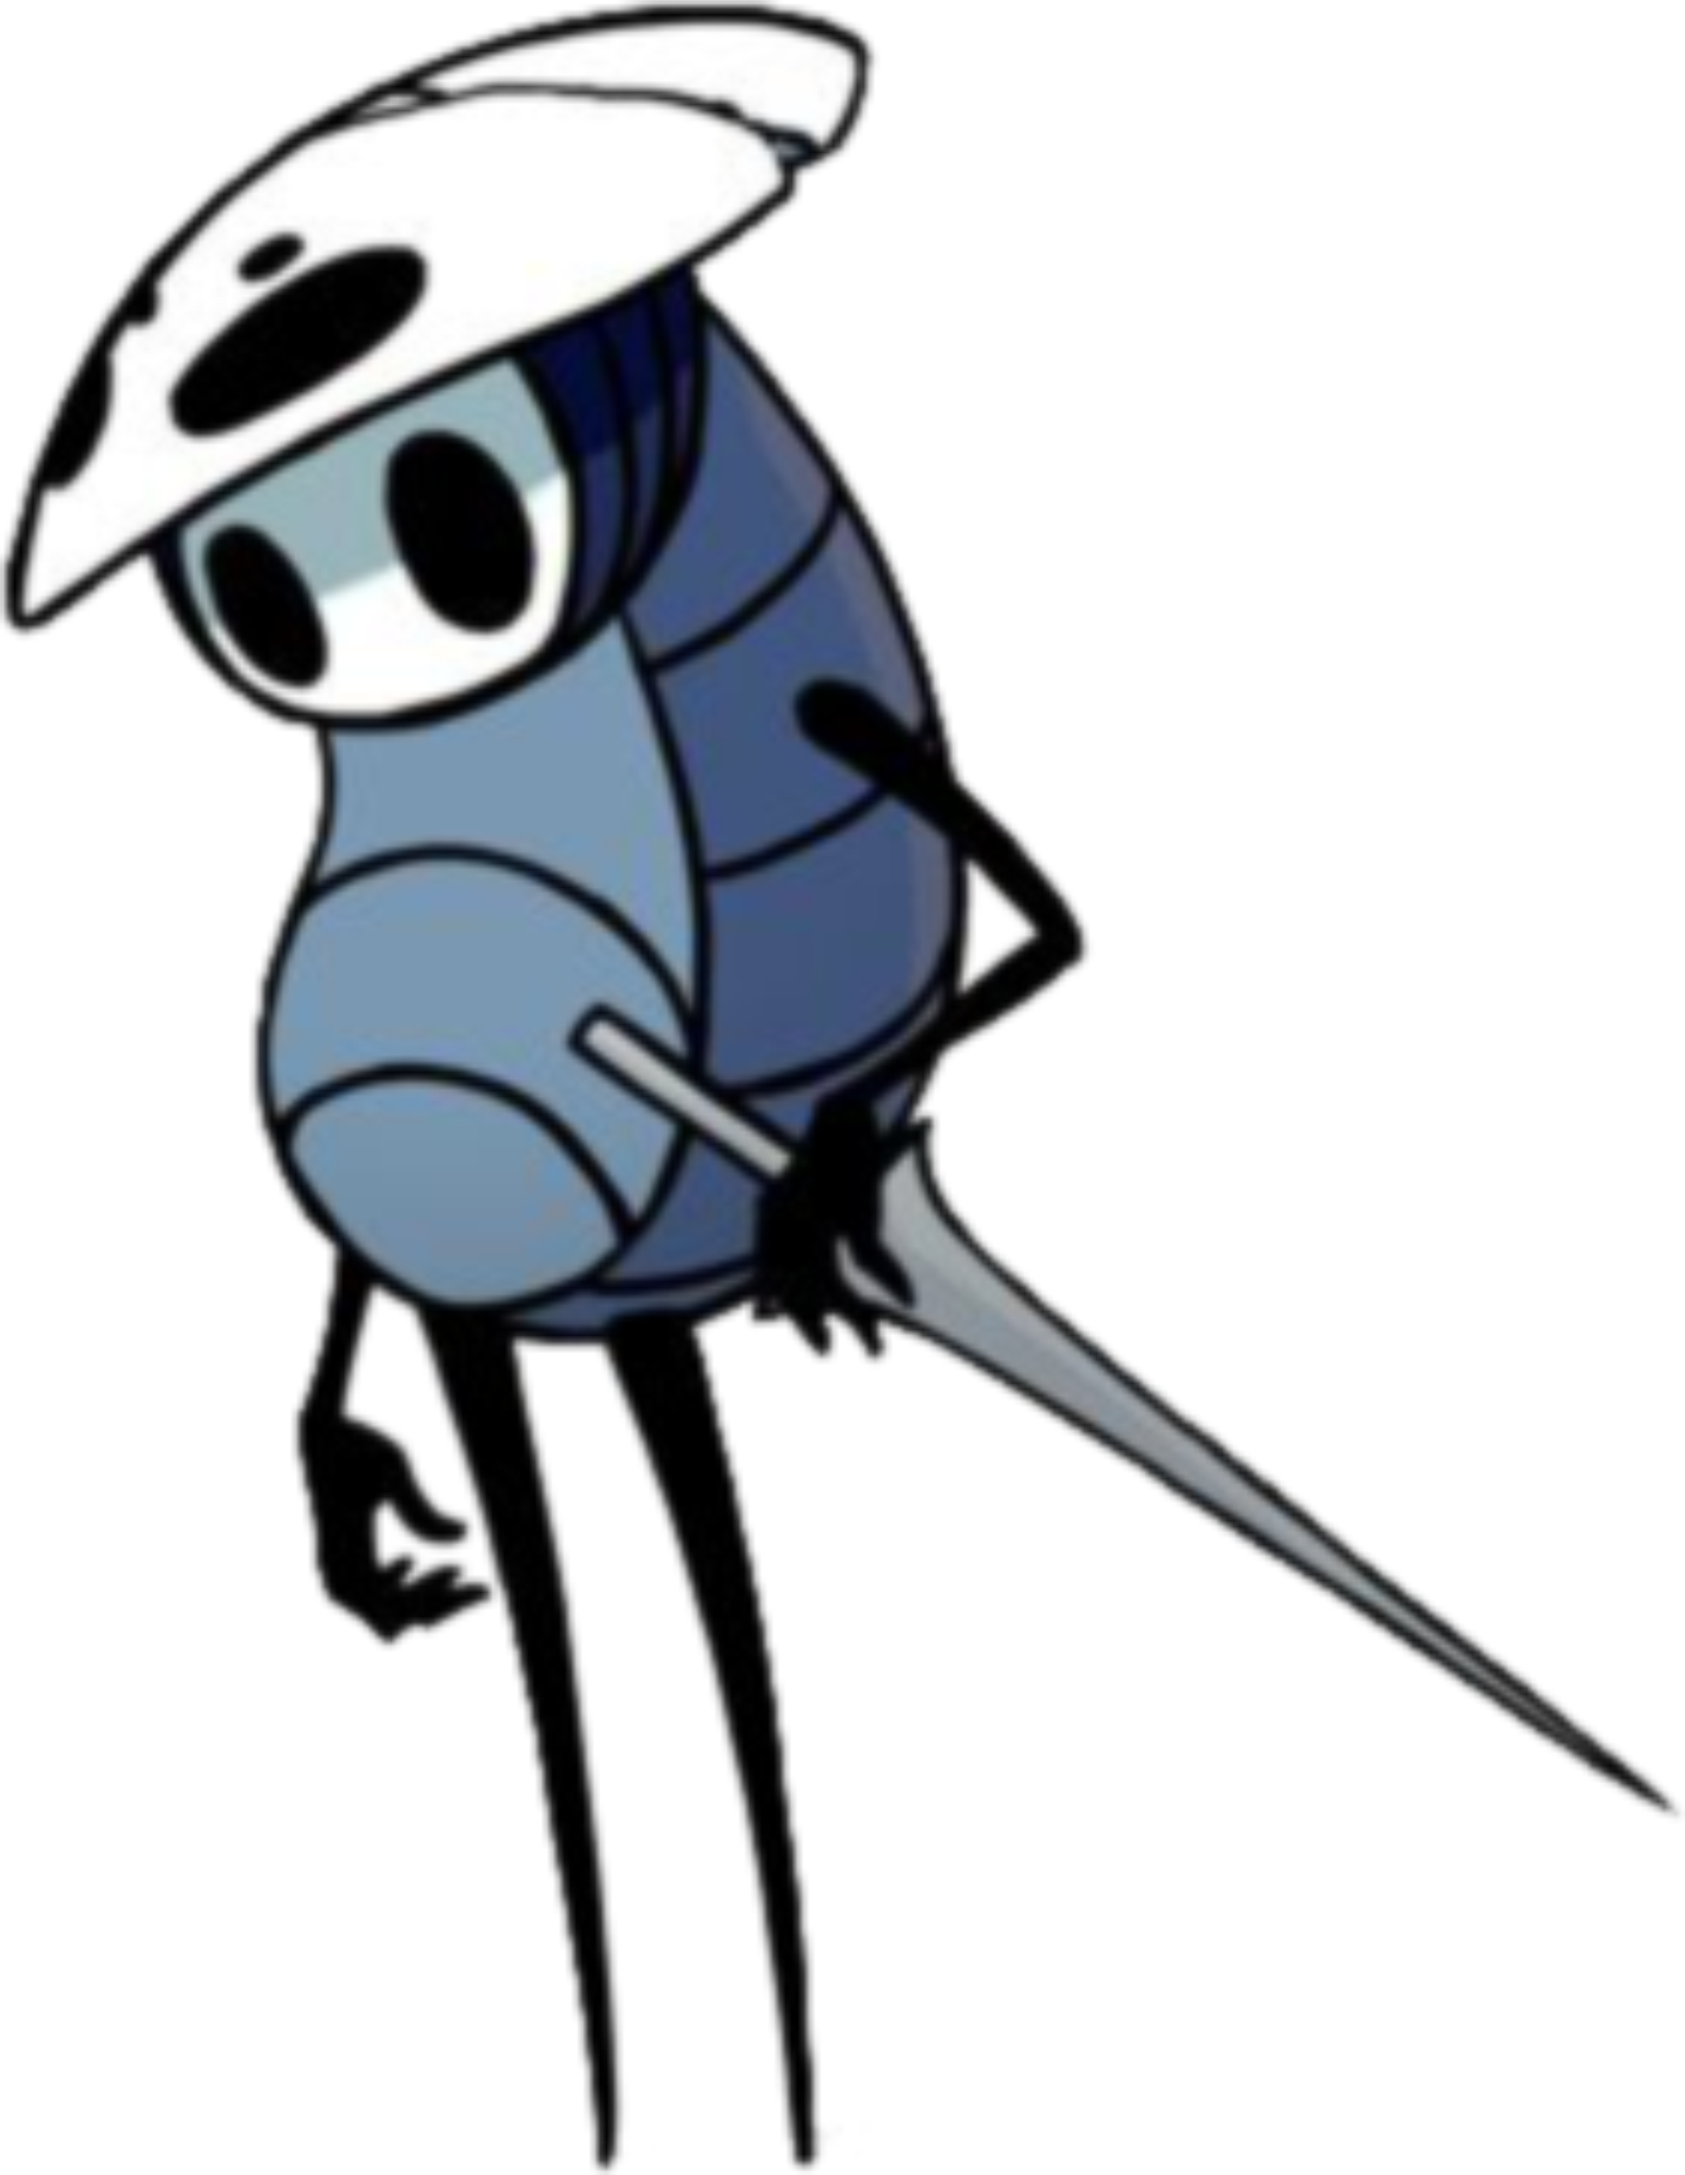
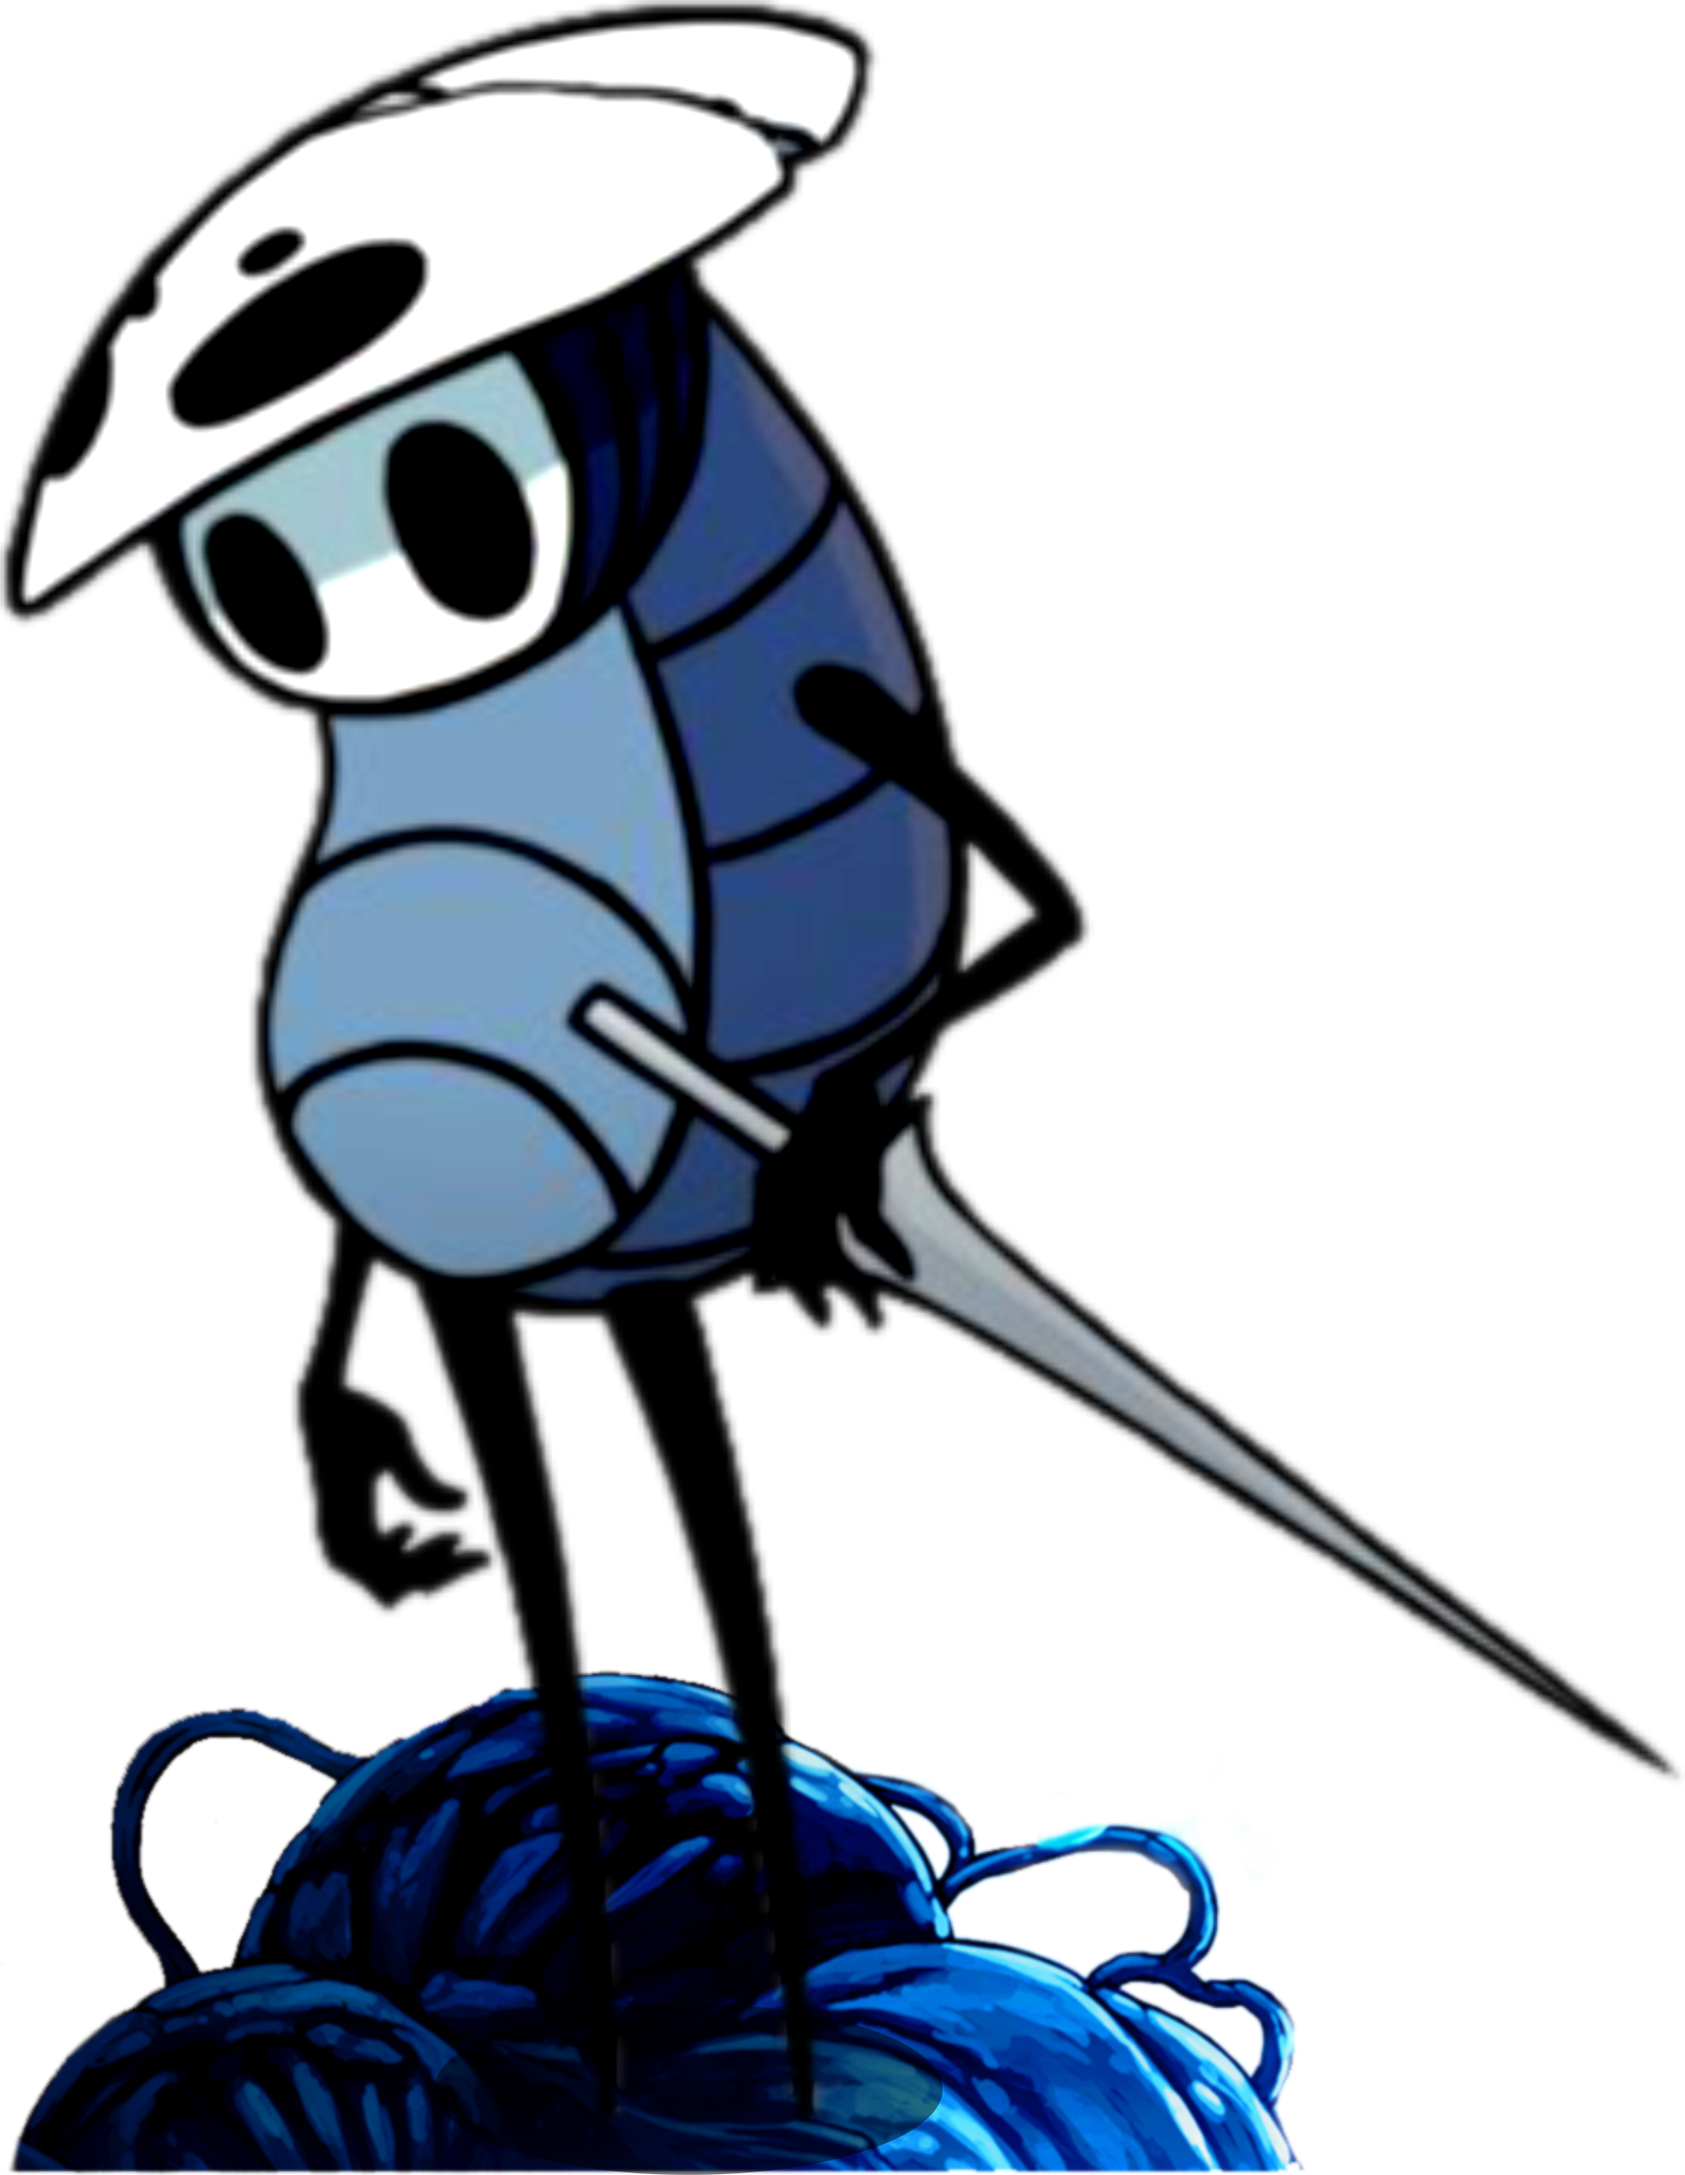
Landing Page Completa

Changed region(s): [[0.0, 0.0, 1.0, 1.0], [0.4948, 0.0312, 0.5258, 0.0623]]

diff --git a/index.html b/index.html
@@ -26,7 +26,11 @@
                 </li>
             </ul>
         </nav>
-        <a href="#" class="botao"> Login</a>
+        <div class="botoes"> 
+            <a href="#" class="botao"> Login</a>
+            <a href="#" class="botao"> Cadastre-se</a>
+        </div>
+       
         </div>
     </header>
 
@@ -43,12 +47,13 @@
         <h1 class="h2"> OLÁ, GAMER!</h1>
         <h2> Conheça a nossa Loja</h2>
         <p class="loja">
-            Sed veniam ex est minima, odio eligendi facilis vero asperiores, accusamus eveniet id! Architecto placeat rem quo expedita libero eius voluptatum quis?
+            Saudações, Gamer! Seja bem vindo ao nosso cantinho digital.
         </p>
+        <br>
         <p class="loja">
-            Sed veniam ex est minima, odio eligendi facilis vero asperiores, accusamus eveniet id! Architecto placeat rem quo expedita libero eius voluptatum quis?
+            Nós somos a GM! Shop, uma das maiores lojas físicas de games do Paraná. Atuamos no mercado desde 2018 e trabalhamos com mídias físicas e digitais. Nossa filosofia de vendas, é trazer o melhor custo benefício para nossos clientes.
         </p>
-        <ul class="lista">
+            <ul class="lista">
             <li><img src="./Imagens/ps logo.png" class="minilogo" draggable="false" alt="logo Playstation" title="Playstation"/> </li>
             <li><img src="./Imagens/xbox logo.png" class="minilogo" draggable="false" alt="logo XBOX" title="Xbox"/> </li>
             <li><img src="./Imagens/switch logo.png" class="minilogo" draggable="false" alt="logo Switch" title="Switch"/> </li>
@@ -65,7 +70,7 @@
             <input type="text" placeholder="Seu nome" />
             <input type="email" placeholder="Seu e-mail" />
             <input type="tel" placeholder="Seu telefone" />
-            <textarea placeholder="Deixe aqui sua mensagem"><</textarea>
+            <textarea placeholder="Deixe aqui sua mensagem"></textarea>
             <button class="send" type="submit">Enviar</button>
         </form>
     <img src="./Imagens/HK 2 png.png" class="sidec" alt="Personagem de Hollow Knight" draggable="false"/> 
@@ -96,7 +101,7 @@
     <section class="h2s">   
             <div> <h2 class="h2">ONDE NOS ENCONTRAR</h2></div>
             <div class="footer"></div>
-            <p class="endereco"> Rua XXX, número 1083 - Curitiba (PR)</p>  
+            <p class="endereco"> Rua Dom Pedro II, número 1083 - Curitiba (PR)</p>  
     </section>
 </div>
 </footer>    

diff --git a/index.css b/index.css
@@ -75,13 +75,21 @@ header nav li {
     margin-left: 25px;
 }
 
+.botoes{
+    display: flex;
+    flex-direction: column;
+    max-width: 100px;
+    min-width: 130px;;
+}
+
 .botao{
+    margin-top: 3px;
+    margin-right: 5px;
     color:white;
     text-decoration: none;
     text-align: center;
-    width: 95px;
-    padding: 5px;
-    border-radius: 12px;
+    padding: 5px 5px;
+    border-radius: 10px;
     background: rgb(47,197,197);
     background: linear-gradient(0deg, rgba(47,197,197,1) 0%, rgba(93,218,218,1) 100%);
 }
@@ -172,7 +180,7 @@ header .container{
 
 .h2{
     font-family: 'Titan One', sans-serif;
-    font-size: 46px;
+    font-size: 40px;
     color: #11FFFF;
     padding-bottom: 20px;
 }
@@ -241,6 +249,7 @@ h2 {
 .sidec{
     margin-left: 700px;
     position: absolute;
+    bottom:-580px;
     max-height: 450px;
 }
 
